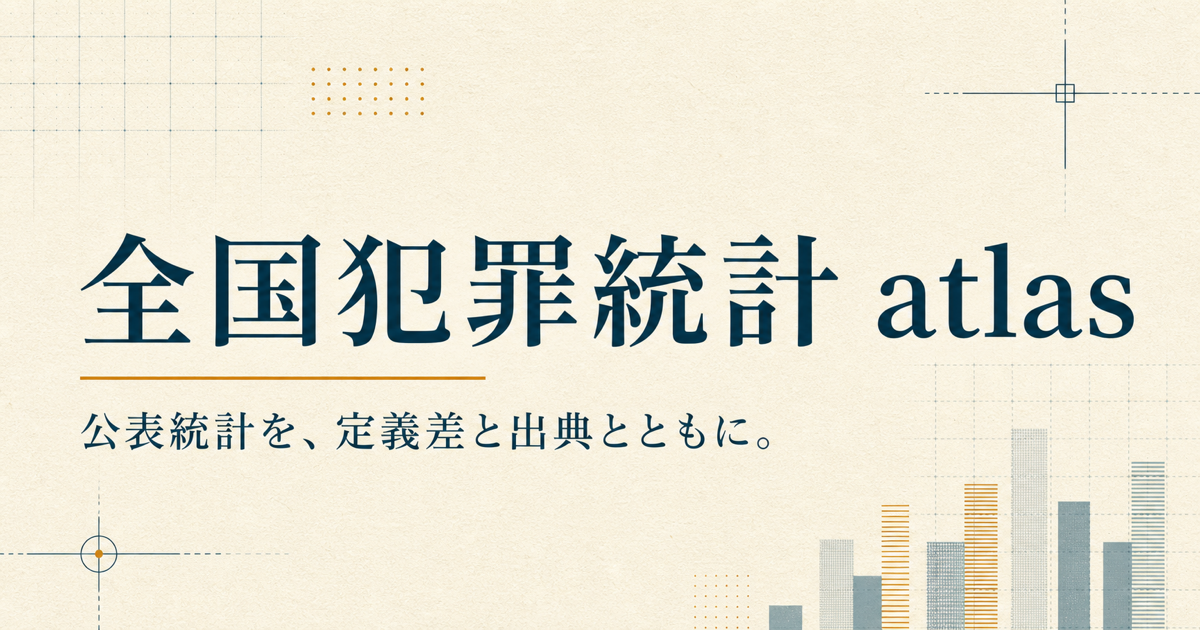
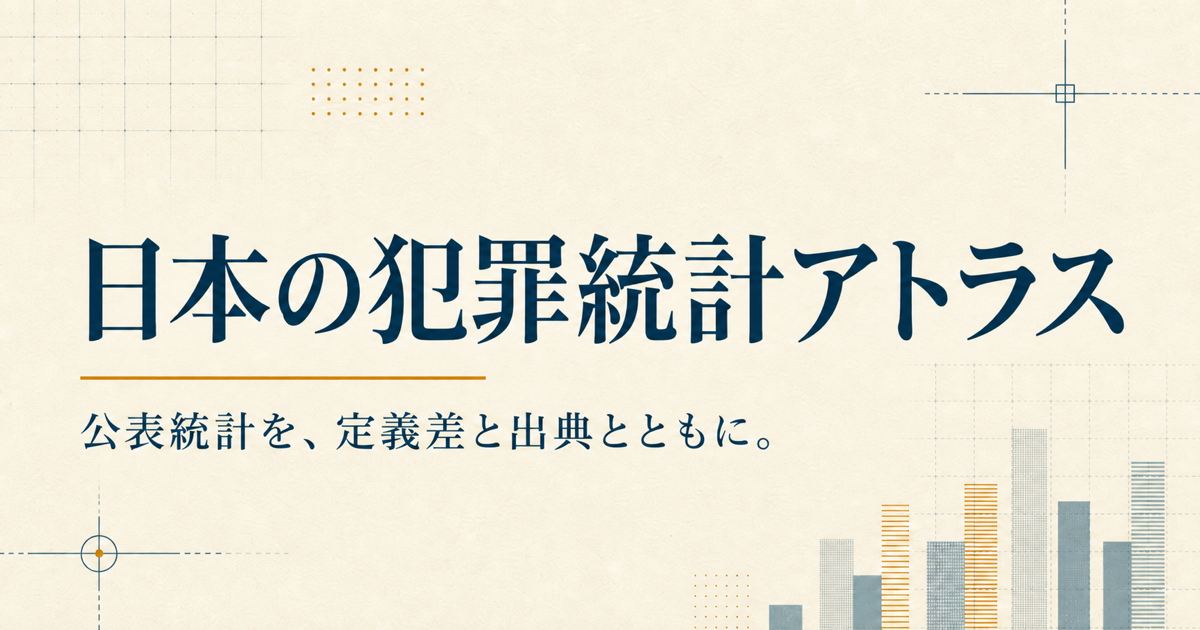
refactor: finalize atlas search presentation

diff --git a/web/tests/pages-artifact.test.ts b/web/tests/pages-artifact.test.ts
@@ -18,8 +18,7 @@ const prepareScriptPath = join(webRoot, 'scripts/prepare-pages-artifact.mjs');
 const verifierPath = join(webRoot, 'scripts/verify-pages-artifact.mjs');
 const siteUrl = 'https://hs-hg-2026.github.io/nationality-crime-atlas/';
 const siteName = '日本の犯罪統計アトラス';
-const pageTitle =
-  '日本の犯罪統計アトラス｜公表犯罪統計と人口統計を可視化';
+const pageTitle = '日本の犯罪統計アトラス｜公表犯罪統計と人口統計を可視化';
 const description =
   '警察庁などが公表した日本の犯罪統計と人口統計を、地域・国籍等・犯罪種別・時系列で、出典・定義の違い・未算出理由とともに比較する可視化サイト。';
 
@@ -162,10 +161,7 @@ describe('GitHub Pages artifact contract', () => {
 
   it('rejects an artifact whose canonical URL is missing', () => {
     const directory = makeArtifact(
-      validIndexHtml().replace(
-        `<link rel="canonical" href="${siteUrl}">`,
-        '',
-      ),
+      validIndexHtml().replace(`<link rel="canonical" href="${siteUrl}">`, ''),
     );
 
     const result = verify(directory);

diff --git a/docs/brief.md b/docs/brief.md
@@ -197,6 +197,7 @@ M1の要点:
 - [x] 2015–2024年について、日本人等の算術残差／日本人人口と、外国人全体／在留外国人数を別panelで表示し、検挙件数／検挙人員、参照人口、人口1,000人当たり参考比率を同じ年軸で確認できるようにする。2015年の外国人分母未登録は0補完せず、分子を残して未算出とする。
 - [x] 2020–2024年について、日本を含む26区分 × 検挙件数／検挙人員の人口1,000人当たり参考比率を、数値凡例付きの青→橙2色heatmapで全件表示する。行は区分内で標準化した5年変化パターンの平均連結・階層クラスタリング順とし、全期間未算出は末尾に残す。日本の残差参考値と選択1区分を、全26区分の最大値を切り上げた0始まりの共通Y軸上で比較し、両者の分子・分母・参考比率を年次表に残す。未算出は0補完しない。
 - [x] 公開サイト下部からGitHub Issuesへ移る導線と、公開投稿・個人情報に関する注意を追加する。
+- [x] 画面名を「日本の犯罪統計アトラス」に統一し、検索結果用title・description、canonical、index/follow、OGP、sitemapとPages artifact gateをlocal実装する。
 - [ ] 可視化要望／不具合報告のGitHub Issue定型を追加する。
 - [ ] サイト内の定義が必要な用語から、公式定義・平易な説明・引用元・適用範囲を持つ用語集へ移動できるようにする。最初の対象は「来日外国人」とする。
 - [x] reviewed release commitをpushし、GitHub Pagesのdeployed URLとlive data hashを実地確認し、v0.2.0を公開する。
@@ -212,8 +213,8 @@ Local MVP実装・検証結果:
 - secondary view: 日本を含む刑法犯検挙人員／検挙件数比較と8つの公表外国人perspectiveをselectorで切り替える。compatibleな日本人分子がないviewでも日本rowをexplicit refusalとして残す。全categoryの参考比率を降順の横棒plotで表示し、日本を別色、算出不能を末尾に置く。全件表にはraw分子・分母・参考比率、source、残差、warning、refusal／mismatchを併記する。個別国籍 × 都道府県は推計しない。
 - composition view: 日本を含む全26 categoryと6犯罪類型をheatmap／100%積み上げで表示し、検挙人員／検挙件数と公表順／階層cluster順を切り替える。cellは構成比と実数を併記し、total 0は`構成比算出不能`とする。
 - time-series view: 2015–2024年の全国検挙構成比60行を、検挙件数／検挙人員を切り替えるline chartと全件表で表示する。外国人全体／来日外国人／両者の算術差分を別系列とし、日本人等を含む全国総数を分母にする。別sectionでは人口当たり参考比率40行を日本人等／外国人全体の2 panelに分け、分子、参照人口、人口1,000人当たりの値を表示する。さらに2020–2024年の国籍等別参考比率260行を、階層クラスタリング順の2色heatmap、日本の橙破線と選択区分の青実線を重ねた比較chart、両系列の年次実数表で示す。比較chartのY軸は全26区分共通で0始まりとする。いずれも人口当たりの犯罪発生確率ではなく、scope不一致と算術残差を常設表示する。
-- verification: frontend 131 test、statement coverage 88.08%、branch coverage 84.12%、typecheck／lint／format／data hash verification／production buildをpass。Pythonは180 test、skip 0、coverage 82.77%。
[1 lines of base64/hex data omitted]
+- verification: frontend 136 test、statement coverage 88.08%、branch coverage 84.12%、typecheck／lint／format／data hash verification／production buildをpass。Pythonは180 test、skip 0、coverage 82.77%。
[1 lines of base64/hex data omitted]
 
 ### M5. 過去年整備・定期更新・監視 — **進行中**
 

diff --git a/docs/20260913_122812_README.md b/docs/20260913_122812_README.md
@@ -1,4 +1,4 @@
-# Japan Crime Statistics Atlas
+# Nationality Crime Atlas for Japan
 
 Official crime-related information is scattered across multiple agencies and documents, so finding the necessary values and organizing them for comparison is not straightforward. This project collects and organizes those public crime and population statistics, then visualizes them together with their sources and definition differences. It also shows unavailable calculations explicitly and does not judge whether values are good or bad, infer causes, or make value judgments about groups or individuals.
 
@@ -53,10 +53,9 @@ See [docs/interpretation_note.md](./docs/interpretation_note.md) for the permane
 - Latest national clearance shares in this series (2024): all foreign 18,861 / 287,273 = 6.57%, visiting foreign 13,405 / 287,273 = 4.67%, and the residual 5,456 / 287,273 = 1.90% for cleared cases; 10,464 / 191,826 = 5.45%, 6,368 / 191,826 = 3.32%, and the residual 4,096 / 191,826 = 2.14% for cleared persons.
 - Same-year national example: 737,679 recognized cases − 287,273 cleared cases = 450,406, or 61.0572% of recognized cases. This is a same-year flow difference, not a tracked unresolved-case cohort.
 - Published dashboard: the ordered 26-category plot; the clustered, two-colour 2020–2024 nationality heatmap with a fixed Japanese-reference comparison line and exact-value table; the clearance-share trend; and separate Japanese/all-foreign population-reference panels are implemented.
-- Search presentation (local, not yet deployed): the visible name is `日本の犯罪統計アトラス`; the page title and description, canonical URL, index/follow directives, Open Graph metadata, 1200 × 630 preview image, and one-URL sitemap are aligned. The Pages artifact gate rejects missing or inconsistent search metadata.
-- Verification: Python 180 tests pass with no skips and 82.77% coverage. Web 136 tests pass with 88.08% statement and 84.12% branch coverage; typecheck, lint, formatting, data-hash verification, and the production build pass.
+- Verification: Python 180 tests pass with no skips and 82.77% coverage. Web 131 tests pass with 88.08% statement and 84.12% branch coverage; typecheck, lint, formatting, data-hash verification, and the production build pass.
 
-The GitHub Pages workflow is under `.github/workflows/pages.yml`. The public repository is [hs-hg-2026/nationality-crime-atlas](https://github.com/hs-hg-2026/nationality-crime-atlas), and the live dashboard is [Japan Crime Statistics Atlas](https://hs-hg-2026.github.io/nationality-crime-atlas/). Release [v0.3.0](https://github.com/hs-hg-2026/nationality-crime-atlas/releases/tag/v0.3.0) publishes schema v9. GitHub Actions run 34170172329 completed successfully; the live site returned HTTP 200, and its dashboard bundle was byte-identical to the checked-in SHA-256 above. The new public-facing name and search metadata remain local until an explicitly approved push.
+The GitHub Pages workflow is under `.github/workflows/pages.yml`. The public repository is [hs-hg-2026/nationality-crime-atlas](https://github.com/hs-hg-2026/nationality-crime-atlas), and the live dashboard is [National Crime Statistics Atlas](https://hs-hg-2026.github.io/nationality-crime-atlas/). Release [v0.3.0](https://github.com/hs-hg-2026/nationality-crime-atlas/releases/tag/v0.3.0) publishes schema v9. GitHub Actions run 34170172329 completed successfully; the live site returned HTTP 200, and its dashboard bundle was byte-identical to the checked-in SHA-256 above.
 
 ## Components
 

diff --git a/docs/20260913_122812_README.ja.md b/docs/20260913_122812_README.ja.md
@@ -1,4 +1,4 @@
-# 日本の犯罪統計アトラス
+# 日本の国籍等別犯罪統計地図
 
 犯罪に関する公的な情報は複数の機関や資料に分散しており、必要な数値へたどり着き、比較できる形に整理することは容易ではありません。このプロジェクトは、それらの公表情報を収集・整理し、犯罪統計と人口統計を出典や定義の違いとともに可視化します。算出できない項目も省略せず示し、数値の良し悪しの評価、原因の推定、集団や個人に対する価値判断は行いません。
 
@@ -53,10 +53,9 @@
 - 時系列の直近値（2024年）：検挙件数は外国人全体18,861 / 全国287,273 = 6.57%、来日外国人13,405 / 287,273 = 4.67%、差分5,456 / 287,273 = 1.90%。検挙人員は10,464 / 191,826 = 5.45%、6,368 / 191,826 = 3.32%、差分4,096 / 191,826 = 2.14%です。
 - 全国の同年差の例：認知737,679件 − 検挙287,273件 = 450,406件、認知件数の61.0572%。同じ事件を追跡した未解決件数ではありません。
 - 公開画面：26区分の順位グラフ、2020–2024年の階層クラスタリング順・2色の国籍等別heatmap、日本参考値と選択区分の比較折れ線・実数表、検挙構成比時系列、日本人等／外国人全体を分けた人口当たり参考比率panelを実装しています。
-- 検索向け表示（local、未deploy）：画面名を「日本の犯罪統計アトラス」とし、検索結果用title・説明、canonical URL、index/follow、OGP、1200 × 630画像、1 URLのsitemapを揃えました。Pages公開物の検証では、これらの欠落や不一致を拒否します。
-- 検証：Pythonは180テスト成功、スキップ0、coverage 82.77%。Webは136テスト成功、statement coverage 88.08%、branch coverage 84.12%。型検査、lint、format、データhash、production buildも成功しています。
+- 検証：Pythonは180テスト成功、スキップ0、coverage 82.77%。Webは131テスト成功、statement coverage 88.08%、branch coverage 84.12%。型検査、lint、format、データhash、production buildも成功しています。
 
-GitHub Pages用の処理は `.github/workflows/pages.yml` にあります。公開repositoryは [hs-hg-2026/nationality-crime-atlas](https://github.com/hs-hg-2026/nationality-crime-atlas)、公開画面は [日本の犯罪統計アトラス](https://hs-hg-2026.github.io/nationality-crime-atlas/) です。[v0.3.0](https://github.com/hs-hg-2026/nationality-crime-atlas/releases/tag/v0.3.0)で公開用データ形式第9版を公開しました。GitHub Actions run 34170172329の成功、公開画面のHTTP 200、公開bundleとrepository内SHA-256のbyte一致を確認済みです。新名称と検索向けmetadataはlocal変更であり、明示的にpushが承認されるまでは公開画面へ反映されません。
+GitHub Pages用の処理は `.github/workflows/pages.yml` にあります。公開repositoryは [hs-hg-2026/nationality-crime-atlas](https://github.com/hs-hg-2026/nationality-crime-atlas)、公開画面は [全国犯罪統計地図](https://hs-hg-2026.github.io/nationality-crime-atlas/) です。[v0.3.0](https://github.com/hs-hg-2026/nationality-crime-atlas/releases/tag/v0.3.0)で公開用データ形式第9版を公開しました。GitHub Actions run 34170172329の成功、公開画面のHTTP 200、公開bundleとrepository内SHA-256のbyte一致を確認済みです。
 
 ## 構成
 

diff --git a/logbook.md b/logbook.md
@@ -464,3 +464,9 @@
 - **どう判断したか／なぜ**: local検証だけで公開済みとせず、GitHub Actionsのproduction gate、Pages応答、公開dataのbyte identityまでをrelease完了条件とした。
[1 lines of base64/hex data omitted]
 - **関連パス**: `docs/20260908_082601_v0.3.0_release_notes.md`, `README.md`, `README.ja.md`, `docs/brief.md`, `docs/workflow.md`; release: `https://github.com/hs-hg-2026/nationality-crime-atlas/releases/tag/v0.3.0`; run: `https://github.com/hs-hg-2026/nationality-crime-atlas/actions/runs/34170172329`
+
+## 2026-09-13 公開名称と検索向けmetadataを再設計
+- **何が**: 一般語中心の「全国犯罪統計地図」から「日本の犯罪統計アトラス」へ画面名を変更し、検索結果用title／description、canonical、index/follow、Open Graph metadata、sitemap、1200 × 630のOGP画像を揃えた。Pages artifact verifierは名称・metadata・canonical・sitemapの欠落や不一致を拒否する。
+- **どう判断したか／なぜ**: 完全一致検索とsite指定検索で公開画面を確認できず、一般検索では警察庁・e-Stat等が中心だった。新名称は`日本`と`犯罪統計`を残しつつ、地域地図だけでなく国籍等別、犯罪種別、時系列、出典・定義差まで扱う多面的な内容を`アトラス`で表す。国籍や外国人を名称の中心に置かない。Googleの`WebSite` site-name structured dataはdomain／subdomain rootのみ対応し、current GitHub Pagesのsubdirectoryには非対応なので追加しない。
[1 lines of base64/hex data omitted]
+- **関連パス**: `web/app/layout.tsx`, `web/components/crime-atlas-dashboard.tsx`, `web/public/sitemap.xml`, `web/public/og.png`, `web/scripts/verify-pages-artifact.mjs`, `web/tests/pages-artifact.test.ts`, `web/tests/dashboard.test.tsx`, `README.md`, `README.ja.md`, `docs/brief.md`, `docs/workflow.md`

diff --git a/docs/20260913_122812_workflow.md b/docs/20260913_122812_workflow.md
@@ -112,11 +112,10 @@ official HTTPS source
 - [x] v0.1.0 history was privacy-audited, pushed, and its deployed Pages URL inspected
 - [x] schema-v8 reviewed commits are pushed and the deployed Pages URL is re-inspected
 - [x] v0.3.0 / schema-v9 nationality-trend release is pushed; Actions run 34170172329, live HTTP 200, and byte-identical publication data are verified
-- [x] local search presentation uses `日本の犯罪統計アトラス`, a descriptive title, canonical URL, index/follow, Open Graph metadata, a 1200 × 630 preview, and a one-URL sitemap; the Pages artifact gate rejects drift
 
 ## Current phase: historical evidence
 
-Historical official editions have been added without overwriting prior editions. The national clearance-share and population-reference trends are complete for 2015–2024, and the 2020–2024 Japanese-inclusive nationality reference-ratio trend is published in v0.3.0. A local, not-yet-deployed discovery update renames the public surface to `日本の犯罪統計アトラス` and adds verified search metadata and a sitemap. The next small implementation adds structured visualization-request and bug-report templates, followed by an evidence-backed glossary beginning with `来日外国人`. The remaining historical slice joins regional and offense-composition rows into reviewable panels. It must separate repeatable patterns from small-denominator volatility, report category/schema changes, and never manufacture a continuous series where definitions changed. Official-catalog discovery and scheduled acquisition remain later work and must retain the last verified publication when a new edition fails validation.
+Historical official editions have been added without overwriting prior editions. The national clearance-share and population-reference trends are complete for 2015–2024, and the 2020–2024 Japanese-inclusive nationality reference-ratio trend is published in v0.3.0. The next small implementation adds structured visualization-request and bug-report templates, followed by an evidence-backed glossary beginning with `来日外国人`. The remaining historical slice joins regional and offense-composition rows into reviewable panels. It must separate repeatable patterns from small-denominator volatility, report category/schema changes, and never manufacture a continuous series where definitions changed. Official-catalog discovery and scheduled acquisition remain later work and must retain the last verified publication when a new edition fails validation.
 
 ## Fixed publication rules
 
